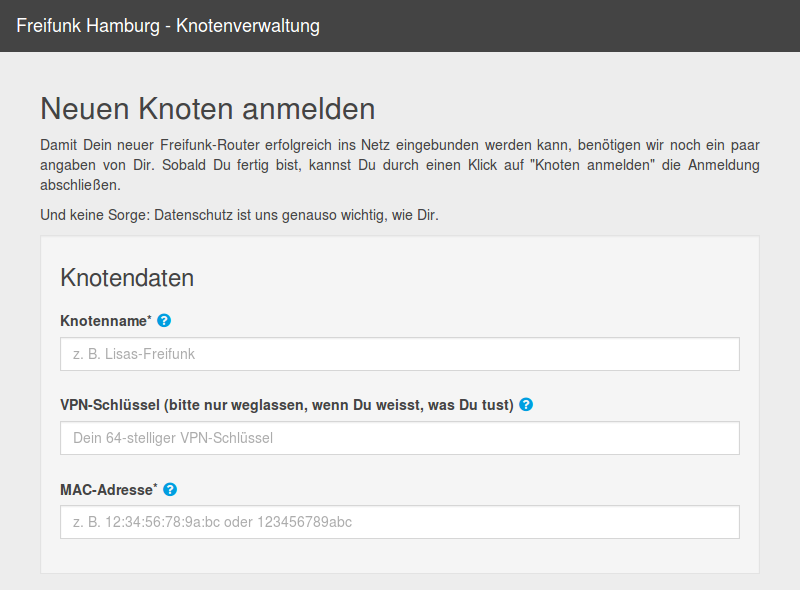
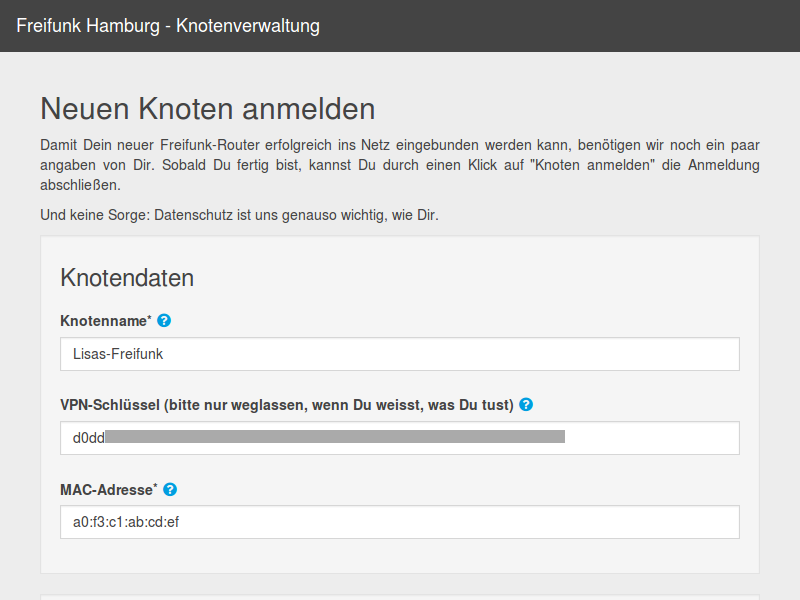
Aktualisiert für Firmware 0.4.2

diff --git a/freifunkhamburg-reinrichten/manuscript/HowTo-Router-Einrichten.md b/freifunkhamburg-reinrichten/manuscript/HowTo-Router-Einrichten.md
@@ -1,8 +1,8 @@
 ## Einleitung
-Für die Einrichtung des Routers werden keine technischen Kenntnisse benötigt. Wenn du dieser Anleitung Schritt für Schritt folgst, kann eigentlich nichts schiefgehen. Wenn du fertig bist, läuft das Freifunk WLAN und ist für alle in der Nähe als offenes WLAN mit der SSID "hamburg.freifunk.net" zu sehen.
+Für die Einrichtung des Routers werden keine technischen Kenntnisse benötigt. Wenn du dieser Anleitung Schritt für Schritt folgst, kann eigentlich nichts schiefgehen. Wenn du fertig bist, läuft das Freifunk WLAN und ist für alle in der Nähe als offenes WLAN mit dem Namen "hamburg.freifunk.net" zu sehen.
 
-Dein Router sollte das Freifunk Betriebssystem bereits installiert haben. Ob das so ist, erfährst du von dem Freifunker, von dem du das Gerät bekommen hast.
-Wenn dein Router noch nicht das Freifunk-Betriebssystem installiert hat, findest du [hier](https://hamburg.freifunk.net/kurzanleitung/) eine Schritt-für-Schritt-Anleitung.
+Dein Router sollte das Freifunk-Betriebssystem (die "Firmware") bereits installiert haben.
+Falls dein Router noch keine Freifunk-Firmware installiert hat, findest du [hier](https://hamburg.freifunk.net/anleitung) eine Schritt-für-Schritt-Anleitung und die Termine der Freifunk-Treffen.
 
 ## Router einrichten
 
@@ -13,10 +13,9 @@ _Deinem Router (1) liegen mindestens eine Antenne (2), ein Steckernetzteil (3) u
 
 Bitte schraube zuerst die Antenne(n) auf die Gewindestecker des Routers. Schließe danach den Router mit dem Steckernetzteil an eine Steckdose an. Verbinde dann den Router mit dem beiliegenden LAN-Kabel (4) mit Deinem Computer. Stecke es dabei am Router in eine gelbe Buchse.
 
-![](images/gelbe_buchse.png "Steck deinen Router für die Einrichtung hier ein")
+![](images/gelbe_buchse.png "Verbinde eine gelbe Buchse mit deinem Computer")
 
 _Anmerkung: Bei manchen Routern kann es sein, dass du die blaue Buchse verwenden musst. Probier's einfach aus, wenn es mit gelb nicht klappt._
-
 
 ### 2. Router konfigurieren
 Jetzt kannst du den Router einfach über den Browser konfigurieren. 
@@ -25,82 +24,78 @@ Dazu rufst du in deinem Browser folgende Adresse auf:
 
 **<http://192.168.1.1>**
 
-Dein Browserfenster müsste nun aussehen. Hier kannst du die wichtigsten Einstellungen für deinen Router vornehmen.
+Dein Browserfenster müsste nun wie folgt aussehen. Hier kannst du die wichtigsten Einstellungen für deinen Router vornehmen.
 
-![](images/start.png "So geht's los")
+![](images/configmode-start.png "Konfigurationsseite der Freifunk-Firmware")
 
-#### Name
-Als erstes musst du deinem Router einen Namen geben. Nimm einfach einen, der dir gefällt und der vielleicht ein wenig über den Standort des Routers aussagt. z.B. HumanistLab.
-Bitte achte darauf, dass keine Leerzeichen im Namen erlaubt sind. Wenn du ein Leerzeichen brauchst, verwende einfach einen Unterstrich "_".
+#### Name dieses Knotens
+Als erstes solltest du deinem Router einen Namen geben. Nimm einfach einen, der dir gefällt und vielleicht etwas über den Standort des Routers aussagt. (Im Beispiel verwenden wir "Lisas-Freifunk".)
+Bitte achte darauf, dass keine Leerzeichen im Namen enthalten sind. Verwende stattdessen einfach einen Bindestrich ("-") oder Unterstrich ("_").
 
-Dieser Name wird später noch einmal benötigt. Am besten öffnest du jetzt einen Texteditor und kopierst ihn dort hinein.
+Dieser Name wird später noch einmal benötigt. Am besten öffnest du einen Texteditor und kopierst ihn dort hinein.
 
-#### Firmware automatisch aktualisieren
-Diese Option ist vorausgewählt. Wenn du die Auswahl stehen lässt, wird sich dein Router automatisch immer das aktuellste Freifunk-Betriebssystem installieren. Das spart eine Menge Zeit für die Zukunft und sorgt für Sicherheit. 
+#### Mesh-VPN aktivieren (empfohlen)
+Wenn du bei "Mesh-VPN aktivieren" ein Häkchen setzt, wird über deinen Internet-Anschluss eine verschlüsselte Verbindung zu den Freifunk-Servern hergestellt. Diese verbinden deinen Router dann mit weit entfernten Freifunk-Routern und dem Internet, ohne Störerhaftung.
 
-#### Mesh-VPN
-Auch diese Option ist vorausgewählt - und das aus gutem Grund: Du erlaubst deinem Freifunk-Router über deinen Internetanschluss  eine verschlüsselte Verbindung zum Freifunk-Server herzustellen. Wenn du diese Option deaktivierst, kann der Router nur mit den Routern kommunizieren, die er direkt oder indirekt per WLAN oder über andere Router mit aktivierter Option erreicht. Der Zugang zum Internet ist dann nur möglich, wenn mindestens bei einem der erreichbaren Router die Option aktiviert ist. 
-Auch hier: Wir empfehlen den Haken gesetzt zu lassen.
+Wenn die Option deaktiviert bleibt, kann sich dein Router nur mit anderen Freifunk-Routern in der Nachbarschaft verbinden. Internet-Zugang ist dann nur möglich, wenn einer der anderen Router ihn anbietet.
+
+Wir empfehlen dieses Häkchen zu setzen.
 
 #### Mesh-VPN Bandbreite begrenzen (optional)
-Wenn du einen normalen Internet-Anschluss hast, brauchst du die Begrenzung nicht zu aktivieren. Dein Router wird im alltäglichen Betrieb nicht allzuviel von deiner Bandbreite in Anspruch nehmen. Unsere Empfehlung ist deshalb, die Begrenzung nicht zu aktivieren.
-Solltest du aber trotzdem eine Begrenzung eintragen wollen, setze den Haken "Mesh-VPN Bandbreite begrenzen?". Daraufhin erscheinen zwei neue Felder. Trage in die beiden Felder darunter die gewünschten Grenzen in Kbit/s ein. Die minimal sinnvollen Werte sind 1000 Downstream und 100 Upstream.
+Wenn du einen normalen Internet-Anschluss hast, wird dein Freifunk-Router im alltäglichen Betrieb nicht allzuviel von deiner Bandbreite in Anspruch nehmen. Unsere Empfehlung ist deshalb, die Begrenzung nicht zu aktivieren.
+Solltest du aber trotzdem eine Begrenzung eintragen wollen, setze den Haken "Mesh-VPN Bandbreite begrenzen". Daraufhin erscheinen zwei neue Felder. Trage in die beiden Felder darunter die gewünschten Grenzen in kbit/s ein. Die minimal sinnvollen Werte sind "1000" für Downstream und "100" für Upstream.
 
-![](images/mesh_limit.png "wenn's sein muss")
+![](images/configmode-vpnlimit.png "Bandbreitenbegrenzung (optional)")
 
-Wenn du alle Daten eingegeben und noch mal geprüft hast bist du fertig und klickst beherzt auf: "Fertig".
-
+Wenn du alle Daten eingegeben und noch mal geprüft hast, bist du fertig und klickst beherzt auf "Fertig".
 
 #### (Fast) Geschafft!
 Dein Freifunk-Router ist nun fertig eingerichtet - aber du bist noch nicht ganz fertig!
 
 Dein Browser müsste nun so aussehen:
 
-![](images/fertig.png "nicht vergessen!")
+![](images/configmode-vpnkey.png "Öffentlicher VPN-Schlüssel und Link zum Knotenformular")
 
-Wichtig: Unter dem Namen deines Freifunk-Routers wird eine lange, unverständliche Zeichenkette angezeigt. Das ist der sogenannte VPN-Schlüssel. Den benötigst du später zur Registrierung deines Routers im Freifunk-Netz. Kopier ihn am besten ebenfalls in den Texteditor.
+**Wichtig:** Unter dem Namen deines Freifunk-Routers wird eine längere Zeichenkette angezeigt. (Im Beispiel ist es "d0dd...".) Das ist der sogenannte VPN-Schlüssel deines Routers. Du benötigst ihn zur Registrierung deines Routers im Freifunk-Netz. Kopiere am besten auch den VPN-Schlüssel in den Texteditor.
+
+Schliesse diese Seite bitte noch nicht, denn der angezeigte Link zu <http://formular.hamburg.freifunk.net/> vereinfacht dir gleich das Ausfüllen des Knotenformulars.
+
+Zunächst solltest du jedoch den Router mit deinem Internet-Anschluss verbinden.
 
 ### 3. Router anschließen
-Nun kannst du den Router ans Internet anschließen. Dazu musst du das LAN-Kabel auf der Rückseite deines Routers umstecken: Bisher hattest du das Kabel in der gelben Buchse (Bei den meisten Modellen). Jetzt muss es in die blaue. Verbinde dann noch das andere Ende des Kabels mit deinem Internet-Router und dein neuer Freifunk-Router ist am Netz.
+Wenn du vorhin das Mesh-VPN aktiviert hast, kannst du den Router nun ans Internet anschließen. Dazu musst du (bei den meisten Modellen) das LAN-Kabel auf der Rückseite von der gelben in die blaue Buchse umstecken. Das andere Ende des Kabels gehört in deinen Internet-Router.
 
-![](images/blaue_buchse.png "Steck deinen Router hier für den laufenden Betrieb ein")
+![](images/blaue_buchse.png "Verbinde die blaue Buchse mit deinem Internet-Router")
 
-Alternativ kannst du deinen Router auch nur zum Meshing verwenden. Dazu muss allerdings mindestens ein anderer Freifunk-Router in WLAN-Reichweite sein. Wenn einer der Router in dem Mesh-Netzwerk eine Internet-Verbindung hat, wird diese mit deinem Router geteilt. Das ist auch gut, aber wir empfehlen trotzdem den Freifunk-Router an deinen Internet-Router anzuschließen, wenn dir das möglich ist. Nur so teilst du deine Bandbreite mit anderen.
+Ohne Internet-Anschluss kommuniziert dein Router nur mit anderen Freifunk-Routern in WLAN-Reichweite. Wenn einer der anderen Router eine Internet-Verbindung hat, wird diese mit deinem Router geteilt. Das ist auch gut, aber wir empfehlen trotzdem den Freifunk-Router an deinen Internet-Router anzuschließen, wenn dir das möglich ist. Nur so teilst du deine Bandbreite mit anderen.
 
 ### 4. Router im Netz registrieren
-Nun musst du nur noch deinen Router über folgendes Formular im Freifunk-Netz anmelden:
+Nun musst du nur noch deinen Router im Freifunk-Netz anmelden. Verwende dazu noch einmal deinen privaten Internet-Zugang.
+
+Falls du den Link von der Konfigurationsseite verwendest, wird automatisch das Knotenformular geöffnet und ausgefüllt.
+
+Andernfalls öffne einfach den folgenden Link und klicke auf "Melde einen neuen Knoten an". Verwende die Informationen, die du vorhin in den Texteditor kopiert hast.
 
 **<http://formular.hamburg.freifunk.net/>**
-
-#### Einrichtung starten
-![](images/knotenformular-start.png "Startseite")
-
-Auf dieser Seite hast du zwei Optionen: einen neuen Router anmelden oder die Daten eines bestehenden ändern. Klicke hier einfach auf "Melde einen neuen Knoten an".
-
-Jetzt kannst du deinen Router über ein einfaches Formular anmelden. Was die einzelnen Felder bedeuten und wie sie auszufüllen sind, wird im Folgenden erklärt.
 
 #### Knotendaten
 ![](images/knotenformular-daten.png "Knotendaten")
 
 **Knotenname**
-Gib hier den Namen an, den du vorhin während der Einrichtung in Schritt 2 vergeben hast. Unter diesem Namen ist dein Router bei Freifunk zu sehen.
+Der Name, den du vorhin in Schritt 2 vergeben hast. Unter diesem Namen ist dein Router bei Freifunk [zu sehen](https://hamburg.freifunk.net/wo-wird-gefunkt).
 
 **VPN-Schlüssel**
-Trage hier den VPN-Schlüssel ein (die lange, unverständliche Zeichenkette, remember?).
+Die längere Zeichenkette, die vorhin auf der Konfigurationsseite zu sehen war.
 
 **MAC-Adresse**
-Als nächstes brauchst du die MAC-Adresse von der Unterseite des Routers. Die MAC-Adresse ist eine eindeutige Identifikationsnummer die der Hersteller für jedes Gerät vergibt.
+Die MAC-Adresse deines Routers findest du auf der Unterseite:
 
-Wenn du sie in das Formular eingibst, füge bitte nach jedem zweiten Buchstaben einen Doppelpunkt hinzu. Leider schreibt der Hersteller die MAC-Adresse ohne Doppelpunkte.
-Schreib also:
-A0:F3:45:… anstatt A0F345…
-
-![](images/router_rueckseite_MAC.png "Die MAC-Adresse auf der Rückseite")
+![](images/router_rueckseite_MAC.png "Die MAC-Adresse auf der Unterseite")
 
 #### Geo-Koordinaten
 ![](images/knotenformular-geo-humanistlab.png "Geo-Koordinaten")
 
-Wenn du die Geo-Koordinaten deines Routers hier einträgst, ist er auf der Karte der Zugangspunkte zu sehen. So können alle feststellen, wo überall Freifunk verfügbar ist. Diese Angabe ist freiwillig, aber empfohlen.
+Wenn du die Geo-Koordinaten deines Routers hier einträgst, ist er auf der Knotenkarte zu sehen. So können alle feststellen, wo überall Freifunk verfügbar ist. Diese Angabe ist freiwillig, aber empfohlen.
 
 Die Koordinaten zu ermitteln, ist ganz einfach: zoome zu dem Ort, an dem du den Router aufstellen möchtest. Klicke dann auf der Karte den Standort des Routers an. Die Koordinaten werden daraufhin in das Formular eingetragen.
 
@@ -122,12 +117,12 @@ Nach wenigen Minuten sollte der Router auf der Karte an der von dir angegebenen 
 
 ![](images/karte_fertig.png "Dein Router ist nun auf der Karte zu sehen")
 
-Jetzt hast du's geschafft. Klopf dir auf die Schultern, freu dich und verbreite die Botschaft von Freifunk weiter. 
+Jetzt hast du's geschafft. Klopf dir auf die Schultern, freu dich und verbreite die Botschaft von Freifunk weiter!
 
 ## Fragen?
-Solltest du Fragen oder Probleme haben oder Einträge deines Knoten ändern wollen, schreibe gerne an 
+Solltest du Fragen oder Probleme haben oder Einträge deines Knoten ändern wollen, schreibe gerne an:
 
-**<kontakt@hamburg.freifunk.net>**!
+**<kontakt@hamburg.freifunk.net>**
 
 ## Noch ein wichtiger Hinweis zum Schluss 
 Das Freifunk-Netz wird in die Niederlande getunnelt. Das kann bedeuten, dass dich Facebook, Googlemail, etc. warnen, du seist im Ausland. Erschrick nicht, obwohl in machen Warnungen von „Hackerangriffen“ etc. die Rede ist. Das ist ganz normal und es soll auch so sein. Diese Maßnahme dient dem Schutz vor der Störerhaftung.
